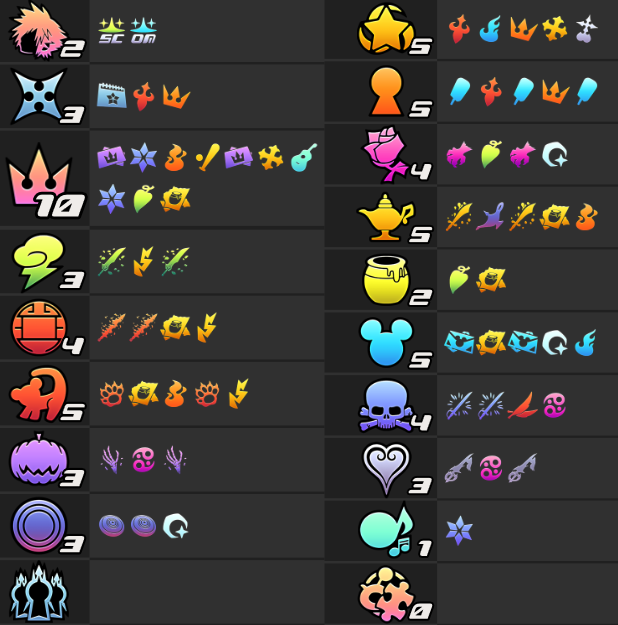
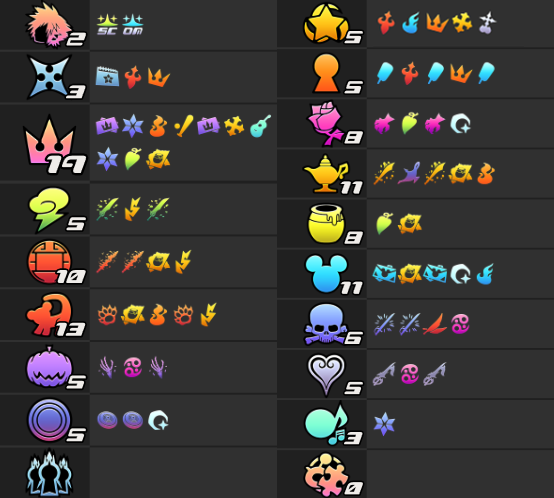
Update path hints cheatsheet image
Add more usefulness to world numbers and provide a brief example

Changed region(s): [[0.5217, 0.0, 0.9819, 1.0], [0.0, 0.0, 0.5217, 1.0]]

diff --git a/docs/hints/path/index.md b/docs/hints/path/index.md
@@ -39,8 +39,7 @@ proof.
 
 ## Original Locations Cheatsheet
 
-Since the paths are determined by where the items are found in the vanilla game, here's a cheatsheet with what the
-randomizer considers "original" locations.
+Since the paths are determined by where the items are found in the vanilla game, here's a cheatsheet with what the randomizer considers "original" locations. The numbers on the world icons refer to the total number of items that hint each world, including multiples for magic, torn pages, and world locks. This means that if you've received more hints for a given proof than a world's number, the proof could not be in that world. For example, imagine a scenario where you've received 4 different hints towards Proof of Peace. This would mean the Proof of Peace could not be in any world with a number less than 4, so Sora's Heart, Simulated Twilight Town, and Atlantica would all be eliminated.
 
 ![Vanilla Checks](vanilla_with_story.png)
 
